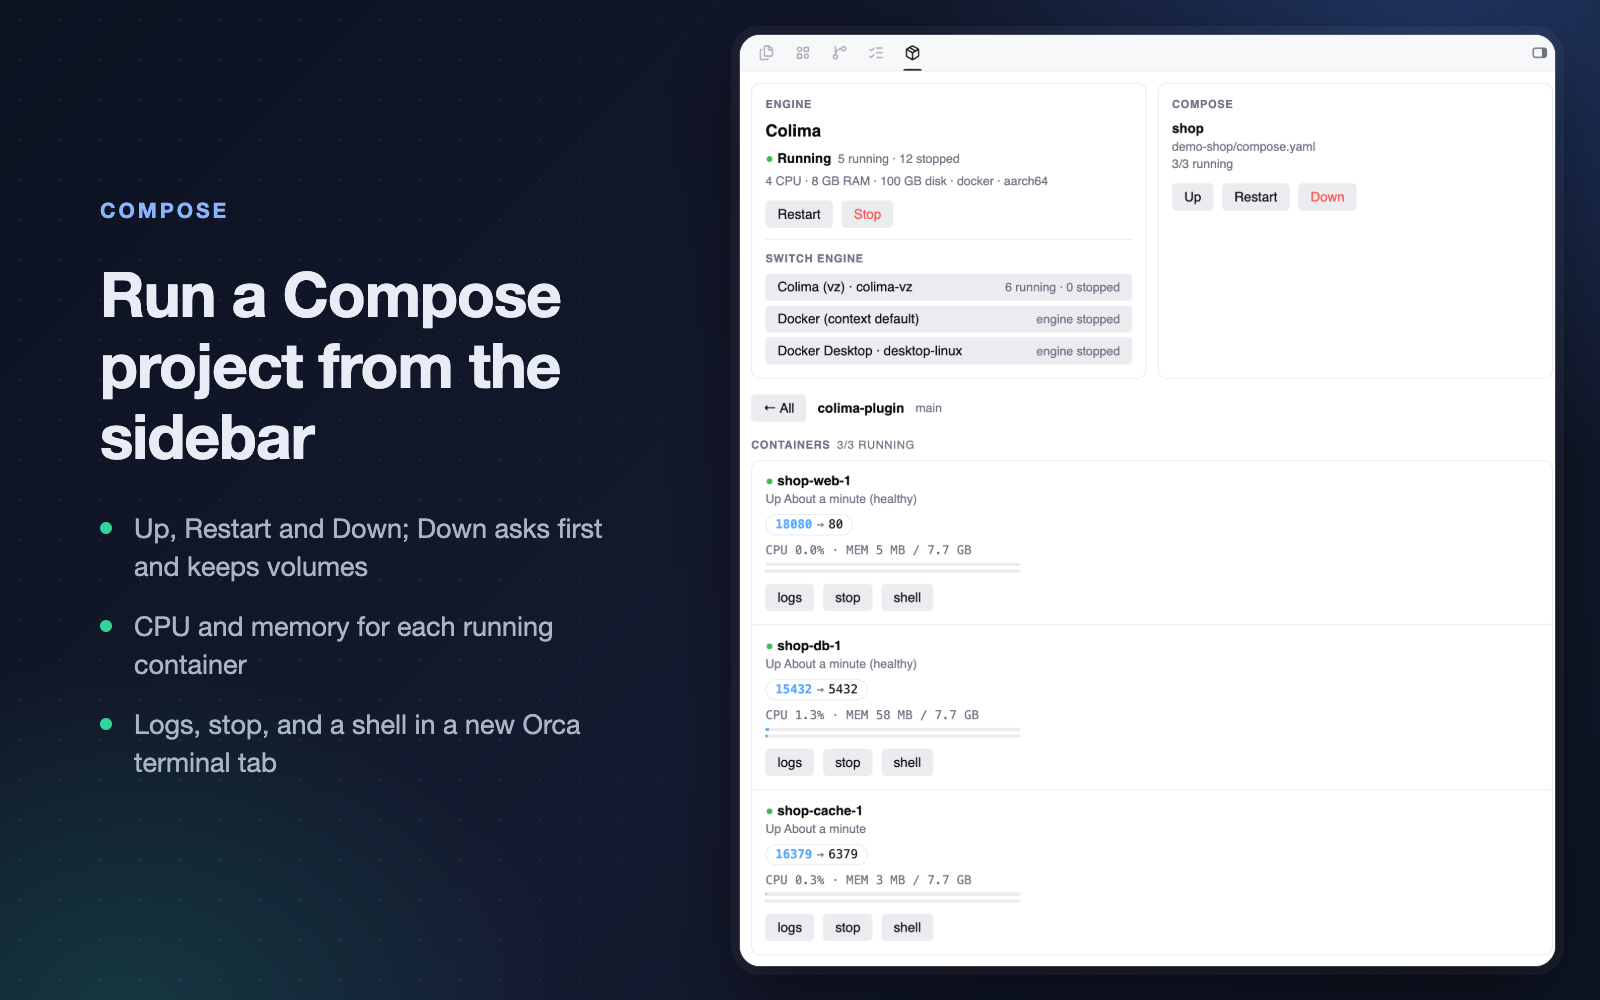
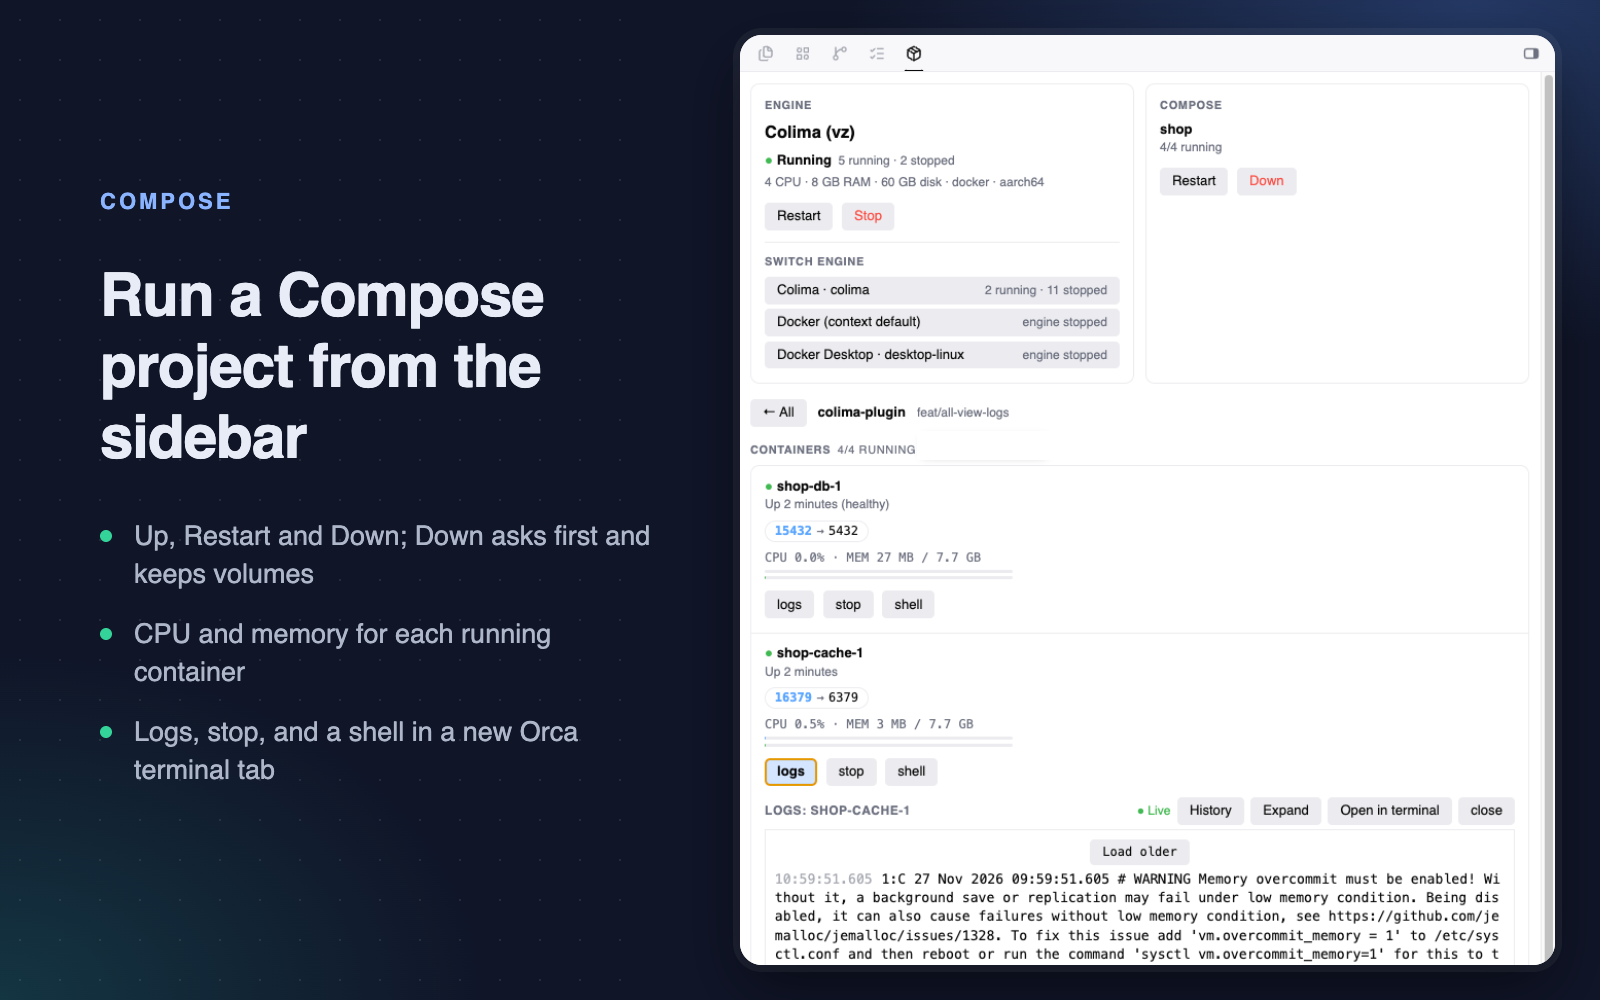
docs: update catalog images for the All view buttons

diff --git a/README.md b/README.md
@@ -5,7 +5,7 @@ Manage your Docker engine and the containers of the worktree you are working in,
 [Colima](https://github.com/abiosoft/colima), Docker Desktop, OrbStack, Podman, Rancher Desktop
 or any other Docker context.
 
-![The Containers panel in Orca's sidebar: engine card, All view and container cards with ports, CPU and memory](images/cover.png)
+![The Containers panel in Orca's sidebar: engine card and All view with ports, health markers, and logs and shell buttons](images/cover.png)
 
 ## Features
 
